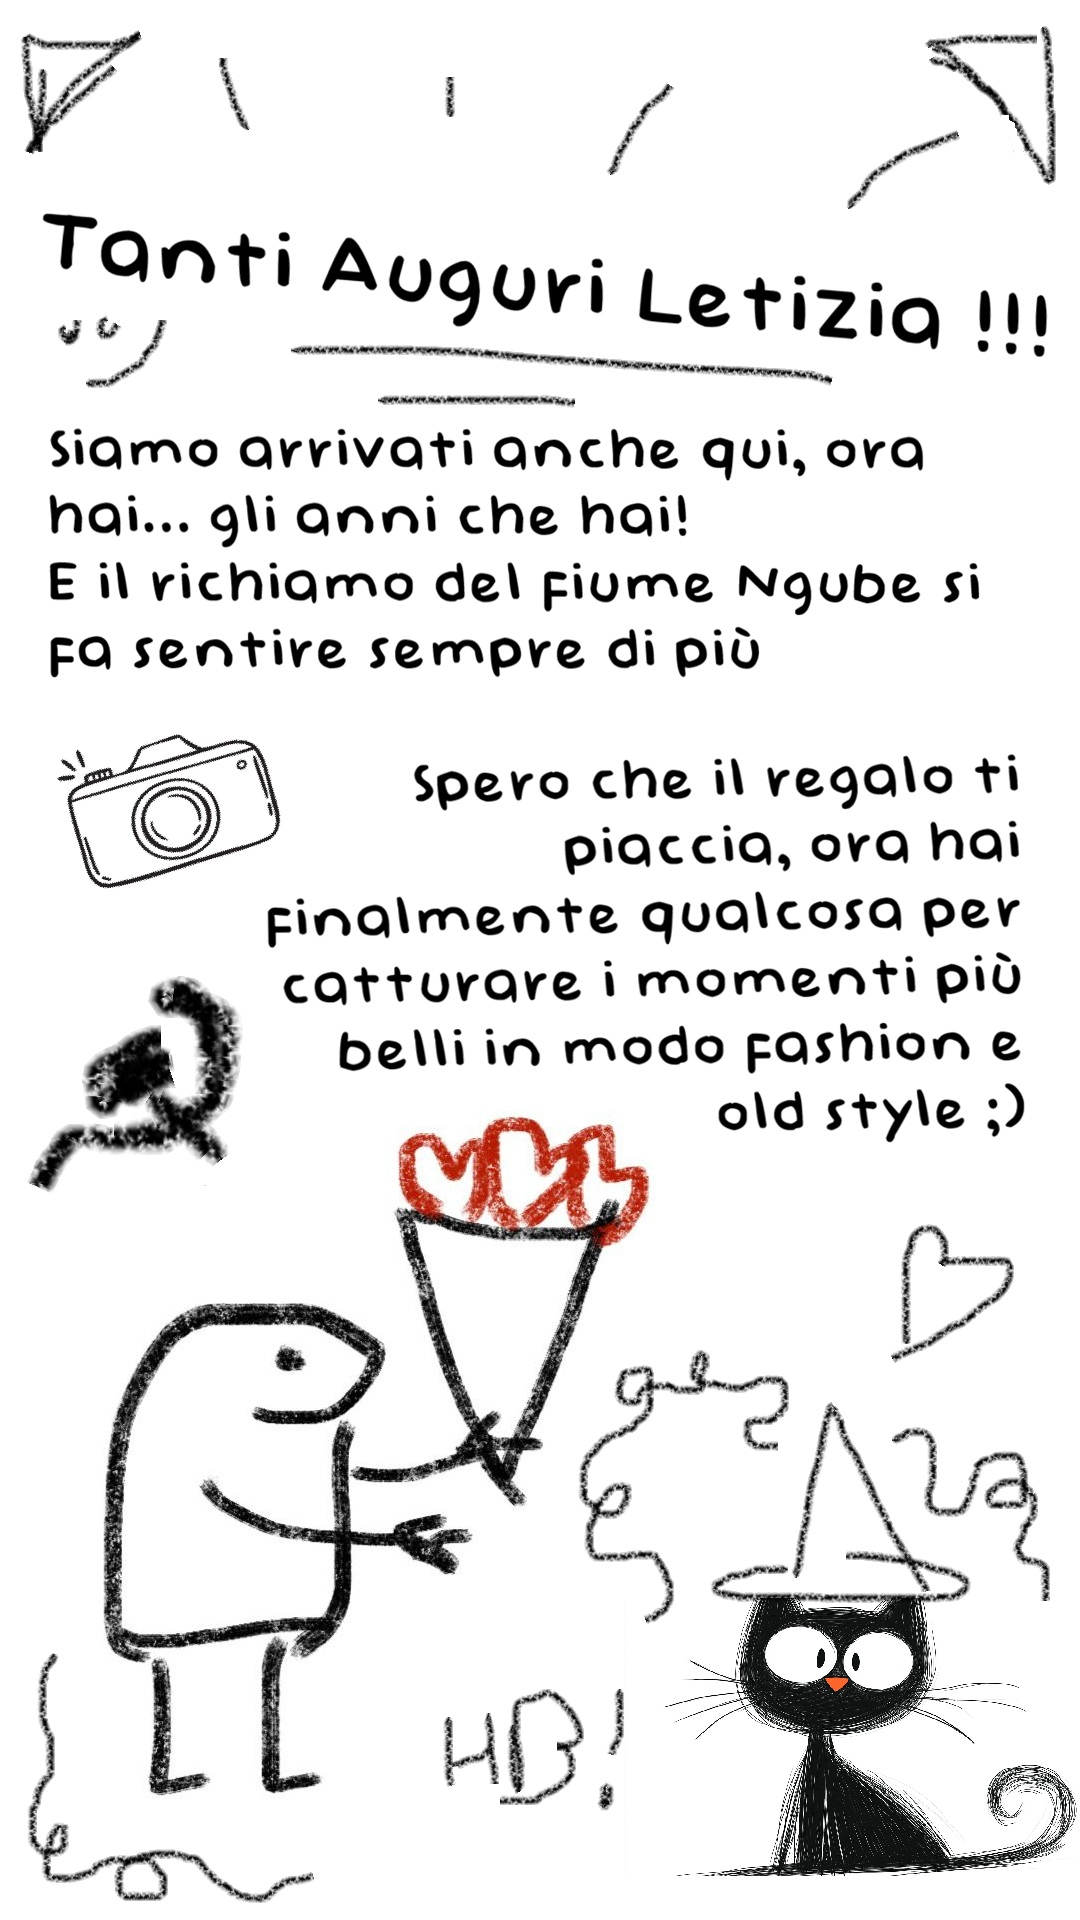
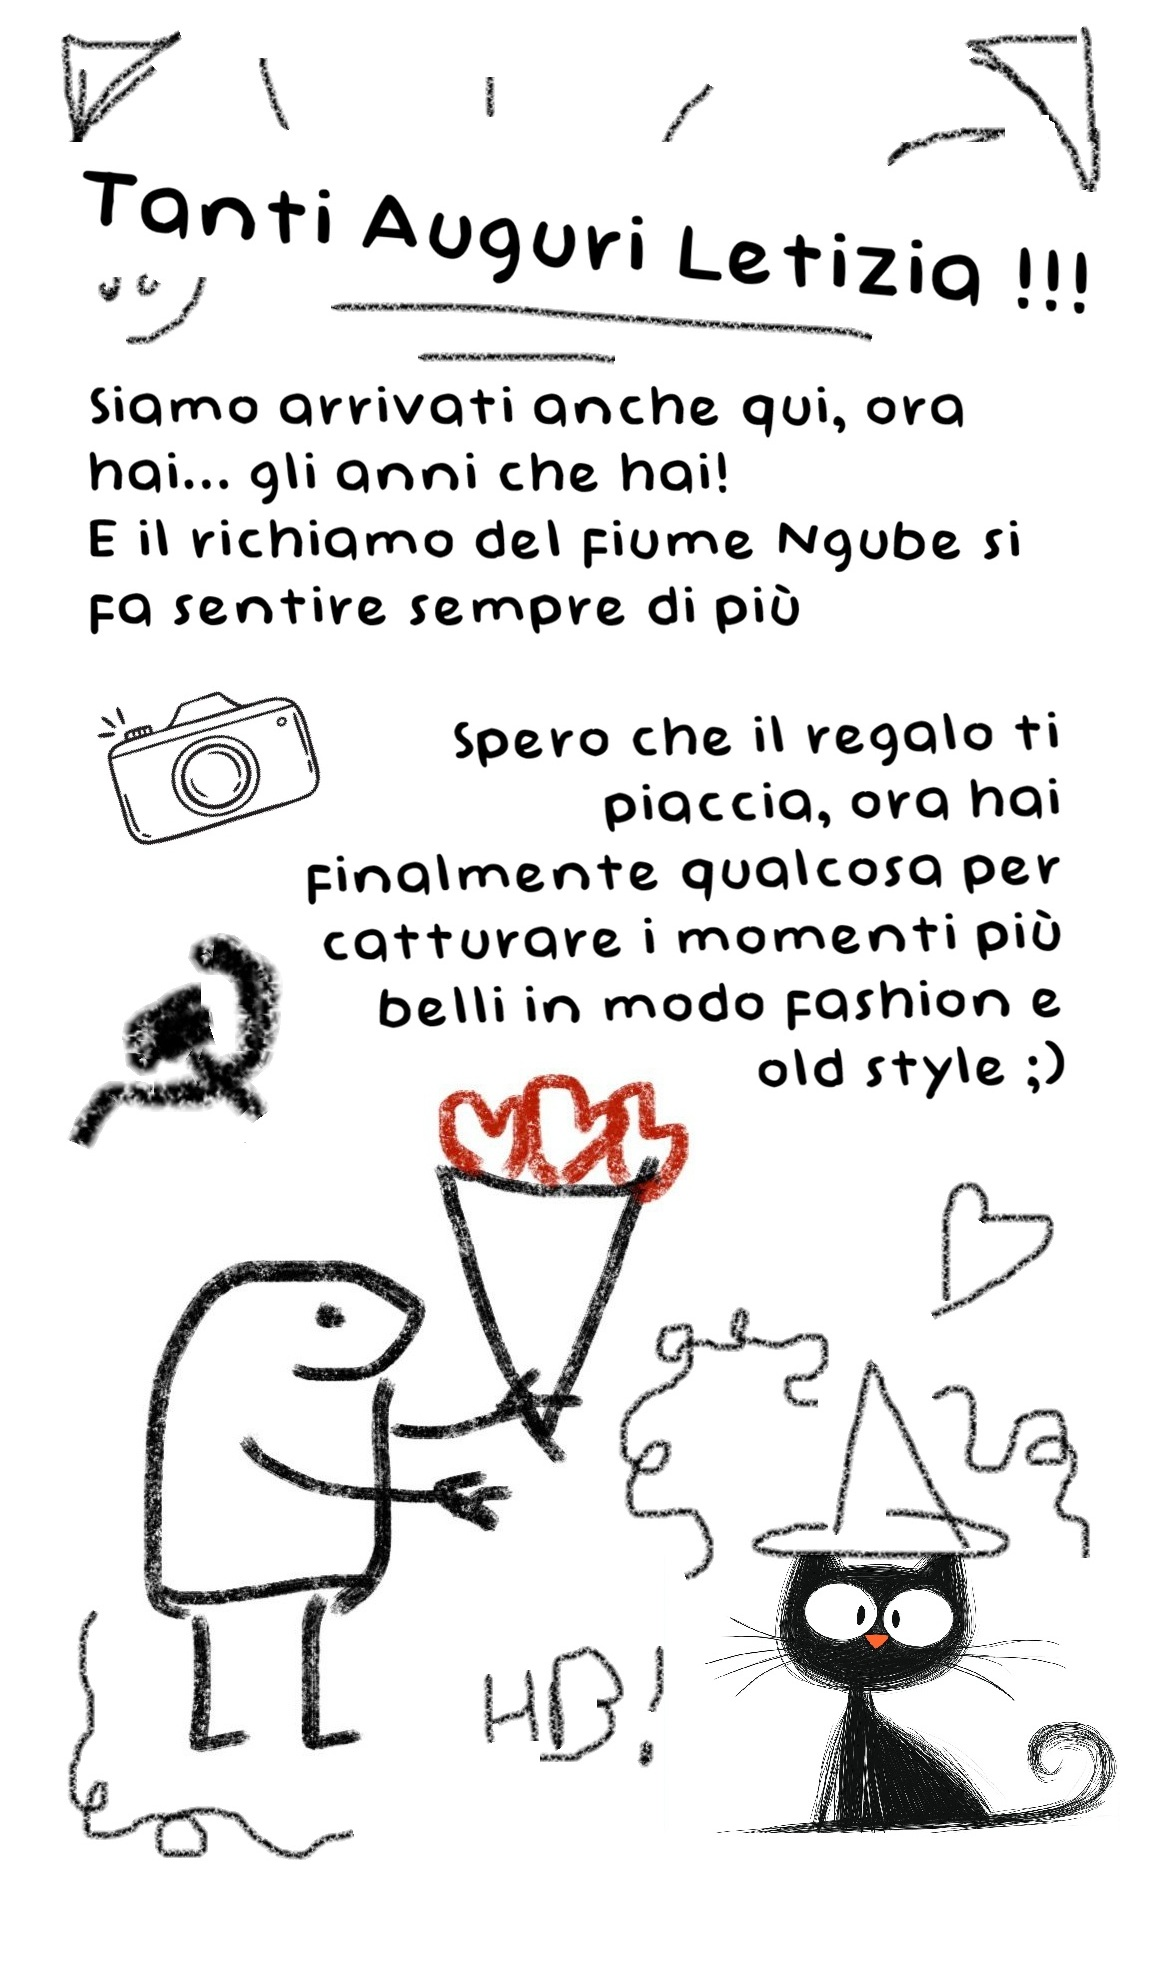
Add interactive letter button with opening animation
Add GIF assets and make the main image interactive: new images (closed.gif, letter.gif, opening.gif) were added and please.jpeg was updated. index.html was restructured to wrap content in .content, replace the static image with a .letter button (with aria attributes) and an initially hidden #image-container, and include a small script that plays the opening GIF then reveals the image. styles.css was updated to add layout rules for .content and .image-container, styles for the .letter button (size, hover/focus effects, focus outline) and a clip-path-based crop via CSS variables to trim GIF borders. Accessibility and UX improvements included (alt text, aria-controls, focus-visible).

diff --git a/styles.css b/styles.css
@@ -19,12 +19,65 @@ main {
 	padding: 0;
 }
 
-main > div {
+.content,
+.image-container {
 	width: min(100vw, 100%);
 	height: min(100vh, 100%);
 }
 
-img {
+.content {
+	display: grid;
+	place-items: center;
+}
+
+.letter {
+	position: relative;
+	width: min(90vw, 854px);
+	/* Modifica questi valori per tagliare i bordi delle GIF della lettera. */
+	--gif-crop-top: 10px;
+	--gif-crop-right: 30px;
+	--gif-crop-bottom: 28px;
+	--gif-crop-left: 30px;
+	padding: 0;
+	border: 0;
+	background: transparent;
+	cursor: pointer;
+	transition: transform 180ms ease;
+}
+
+.letter:hover,
+.letter:focus-visible {
+	transform: translateY(-6px) rotate(-1deg);
+}
+
+.letter:focus-visible {
+	outline: 4px solid #f7c948;
+	outline-offset: 6px;
+}
+
+.letter > img {
+	display: block;
+	width: 100%;
+	height: auto;
+	/*
+	 * Il ritaglio usa la sintassi:
+	 * alto destra basso sinistra
+	 * Esempio: inset(20px 10px 20px 10px).
+	 */
+	clip-path: inset(
+		var(--gif-crop-top)
+		var(--gif-crop-right)
+		var(--gif-crop-bottom)
+		var(--gif-crop-left)
+	);
+}
+
+.image-container {
+	position: absolute;
+	inset: 0;
+}
+
+.image-container img {
 	display: block;
 	width: 100%;
 	height: 100%;

diff --git a/index.html b/index.html
@@ -9,9 +9,31 @@
 </head>
 <body>
   <main>
-    <div>
-      <img src="images/please.jpeg">
+    <div class="content">
+      <button class="letter" type="button" aria-label="Apri la lettera" aria-controls="image-container">
+        <img id="letter-image" src="images/closed.gif" alt="Lettera chiusa">
+      </button>
+
+      <div id="image-container" class="image-container" hidden>
+        <img src="images/please.jpeg" alt="Immagine nella lettera">
+      </div>
     </div>
   </main>
+  <script>
+    const letter = document.querySelector('.letter');
+    const letterImage = document.querySelector('#letter-image');
+    const imageContainer = document.querySelector('#image-container');
+
+    letter.addEventListener('click', () => {
+      letter.disabled = true;
+      letterImage.src = 'images/opening.gif';
+      letterImage.alt = 'Lettera in apertura';
+
+      window.setTimeout(() => {
+        letter.hidden = true;
+        imageContainer.hidden = false;
+      }, 1000);
+    });
+  </script>
 </body>
 </html>
